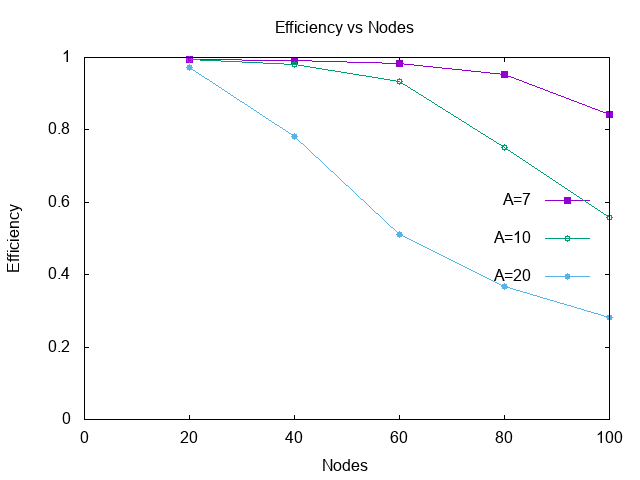
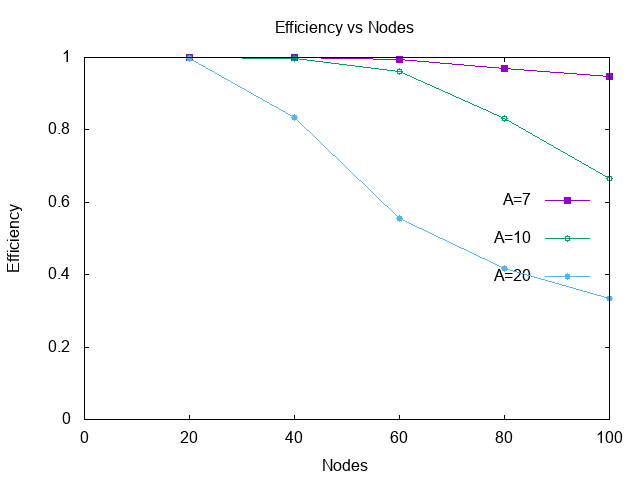
checking graphs

diff --git a/l2/main.cpp b/l2/main.cpp
@@ -31,7 +31,7 @@ double exponentialValue(double lambda) {
 }
 
 double backoff(int n) {
-    std::uniform_int_distribution<int> int_distribution(0, pow(2, n));
+    std::uniform_int_distribution<int> int_distribution(0, pow(2, n) - 1);
     int randVal = int_distribution(generator);
     return (double)randVal * 512.0 / 1000000.0;
 }
@@ -42,7 +42,7 @@ std::deque<double> generateFrames(double lambda) {
 
     while (currTime < T) {
         double nextTime = currTime + exponentialValue(lambda);
-        frames.push_back(nextTime);
+        frames.push_back(nextTime + T_TRANS);
         currTime = nextTime;
     }
 
@@ -80,20 +80,21 @@ public:
         frames = generateFrames(lambda);
     }
 
-    void handleCollision() {
+    void handleCollision(double lastBit) {
         collisionCount += 1;
         if (collisionCount > 10) {
             collisionCount = 0;
             frames.pop_front();
-            nextFrame = std::max(nextFrame, frames.front());
+            if (!frames.empty()) {
+                nextFrame = std::max(nextFrame, frames.front());
+            }
         } else {
-            nextFrame += backoff(collisionCount);
+            nextFrame = lastBit + backoff(collisionCount);
         }
     }
 
     void senderCollision(double max_delay) {
-        handleCollision();
-        nextFrame = max_delay;
+        handleCollision(max_delay);
     }
 
     void senseBusy(double start, double end) {
@@ -118,9 +119,10 @@ public:
 
     void sendSuccessfully() {
         collisionCount = 0;
-        frames.pop_front();
-        nextFrame = std::max(nextFrame + T_TRANS, frames.front());
         transmitted++;
+        frames.pop_front();
+        if (frames.empty()) { return; }
+        nextFrame = std::max(nextFrame + T_TRANS, frames.front());
     }
 };
 
@@ -165,9 +167,9 @@ Result simulate(double simulationTime, std::vector<Node> nodes) {
             double lastBit = arrivalTime + T_TRANS;
 
             // collision case
-            if (node.nextFrame < arrivalTime) {
+            if (node.nextFrame <= arrivalTime) {
                 maxCollidingDistance = std::max(distance, maxCollidingDistance);
-                node.handleCollision();
+                node.handleCollision(lastBit);
                 transmissionAttempts++;  
             } else {
                 node.senseBusy(arrivalTime, lastBit);
@@ -175,7 +177,7 @@ Result simulate(double simulationTime, std::vector<Node> nodes) {
         }
 
         if (maxCollidingDistance >= 0) {
-            minNode.senderCollision(minNode.nextFrame + T_TRANS + maxCollidingDistance * T_PROP); 
+            minNode.senderCollision(minNode.nextFrame + maxCollidingDistance * T_PROP); 
         } else {
             minNode.sendSuccessfully(); 
         }
